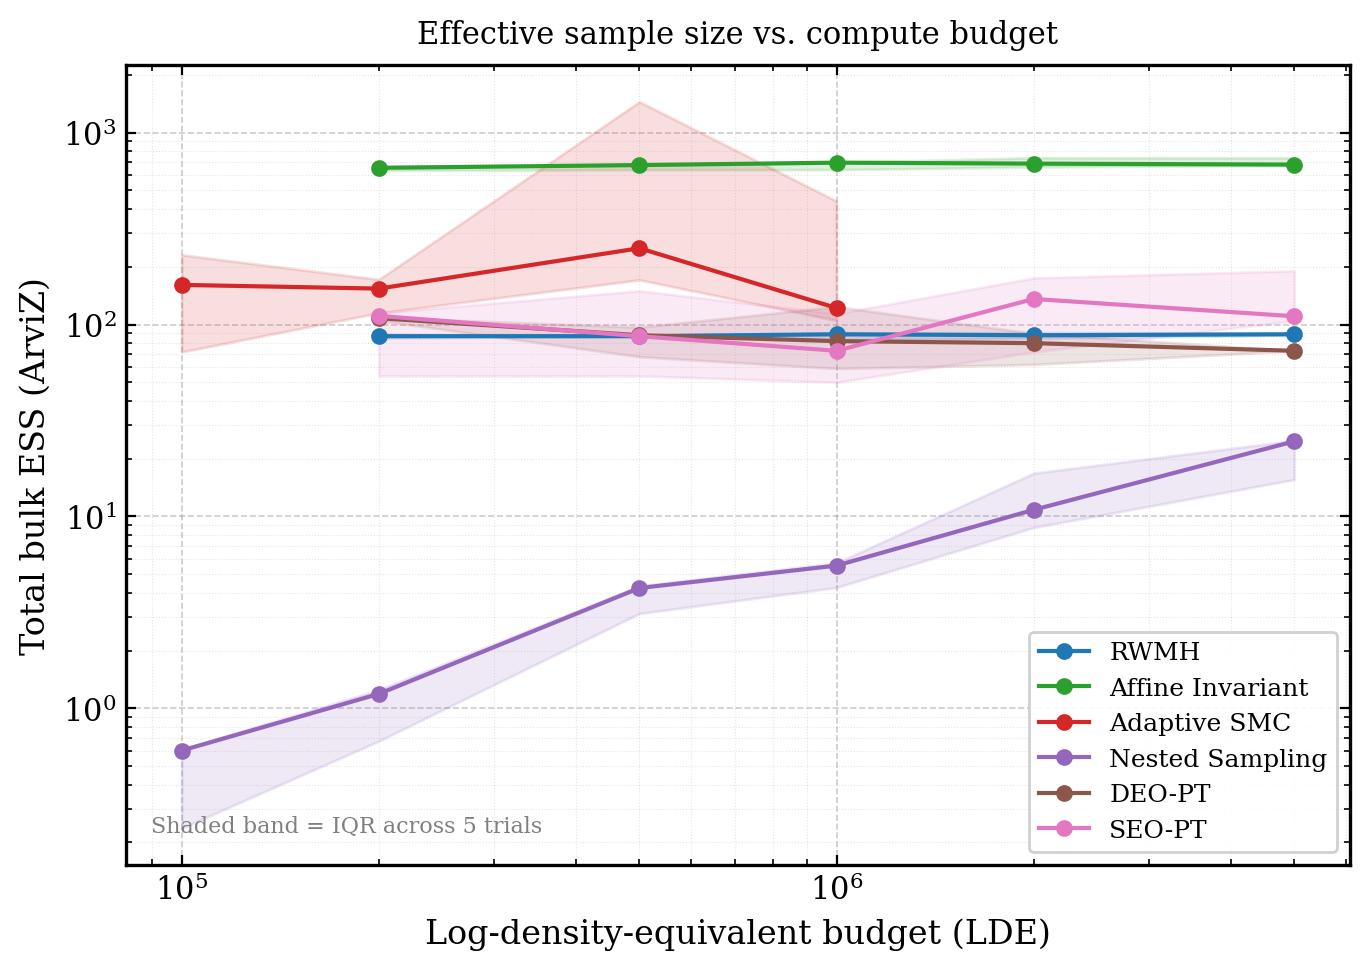
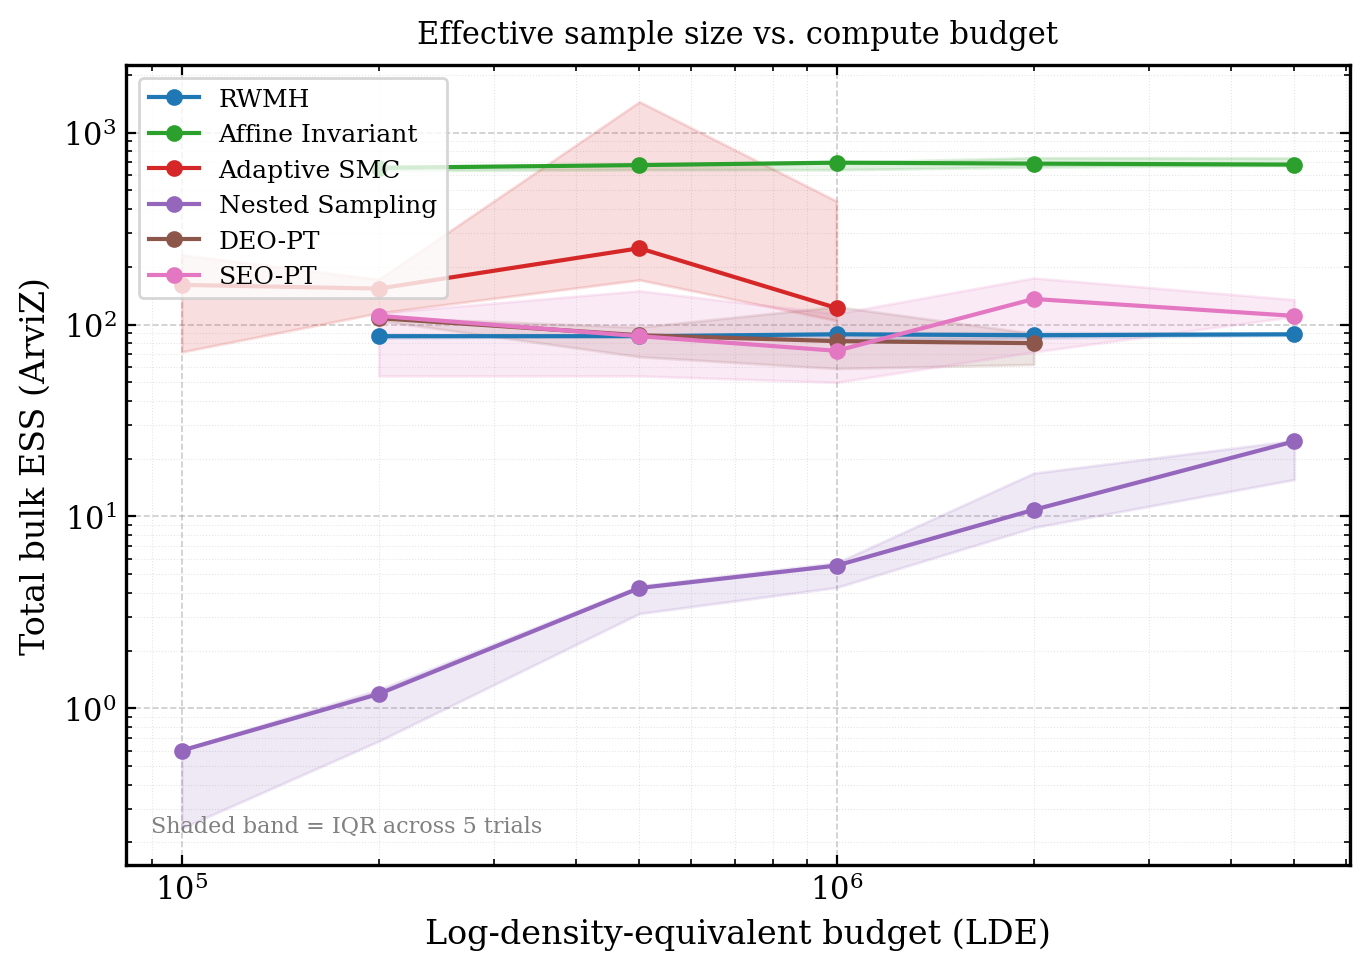
Plot adjustments and updated runs

diff --git a/sajax/scripts/run_deo_large_budget.py b/sajax/scripts/run_deo_large_budget.py
@@ -1,0 +1,66 @@
+"""
+Run DEO trials for the large budget point (5_000_000 LDE)
+and save to results_deo_large.json.
+
+Results are written incrementally so the script is safe to interrupt and restart.
+
+Usage:
+    python run_deo_large_budget.py
+"""
+
+import json
+import sys
+from pathlib import Path
+
+sys.path.insert(0, str(Path(__file__).parent))
+
+from scaling_config import SCALING_OUT_DIR, NUM_TRIALS
+from scaling_run_sampler import run_trial
+
+ALGO       = "deo"
+NEW_BUDGETS = [5_000_000]
+OUT_PATH   = SCALING_OUT_DIR / f"results_{ALGO}_large.json"
+
+
+def main():
+    SCALING_OUT_DIR.mkdir(parents=True, exist_ok=True)
+
+    records = json.loads(OUT_PATH.read_text()) if OUT_PATH.exists() else []
+    done    = {(r["budget_lde"], r["trial"]) for r in records}
+
+    pending = [
+        (budget, trial)
+        for budget in NEW_BUDGETS
+        for trial in range(NUM_TRIALS)
+        if (budget, trial) not in done
+    ]
+
+    if not pending:
+        print(f"All trials already complete in {OUT_PATH}")
+        return
+
+    total = len(pending)
+    for n, (budget, trial) in enumerate(pending, 1):
+        print(
+            f"[{n:3d}/{total}]  {ALGO.upper():<8}  "
+            f"budget={budget:<10,}  trial={trial}",
+            flush=True,
+        )
+        rec = run_trial(ALGO, budget, seed=trial)
+        if rec["error"]:
+            print(f"  !! FAILED: {rec['error'][:200]}")
+        else:
+            print(
+                f"  -> norm_MAE={rec['normalised_mae']:.4f}  "
+                f"wall={rec['wall_time_s']:.1f}s  "
+                f"oracle={rec['actual_oracle_evals']}"
+            )
+        records.append(rec)
+        OUT_PATH.write_text(json.dumps(records, indent=2))
+
+    n_failed = sum(1 for r in records if r["error"])
+    print(f"\nDone: {len(records)} records ({n_failed} failures) -> {OUT_PATH}")
+
+
+if __name__ == "__main__":
+    main()

diff --git a/sajax/scripts/scaling_plot.py b/sajax/scripts/scaling_plot.py
@@ -86,7 +86,7 @@ _RC = {
     "axes.titlesize":      11,
     "axes.linewidth":      1.2,
     "legend.fontsize":     9,
-    "legend.framealpha":   0.9,
+    "legend.framealpha":   0.8,
     "xtick.direction":     "in",
     "ytick.direction":     "in",
     "xtick.top":           True,
@@ -144,7 +144,7 @@ def _draw_metric_on_ax(agg, algo_order, ax, x_key, y_key, xlabel, num_trials,
     ax.grid(True, which="minor", linestyle=":", linewidth=0.4,
             color="gray", alpha=0.2, zorder=1)
     if show_legend:
-        ax.legend(loc="best")
+        ax.legend(loc="upper left")
     if show_annotation:
         ax.annotate(
             f"Shaded band = IQR across {num_trials} trials",
@@ -315,7 +315,7 @@ def _plot_per_param_recovery(records, algo_order):
             f"(LDE = {max_budget:,}, median over {num_trials} trials)",
             pad=8,
         )
-        ax.legend(loc="upper right", fontsize=8, ncol=2)
+        ax.legend(loc="upper left", fontsize=8, ncol=2)
         ax.grid(True, axis="y", linestyle="--", linewidth=0.5, alpha=0.4)
         ax.set_xlim(-0.6, n_params - 0.4)
         ax.spines["top"].set_visible(False)